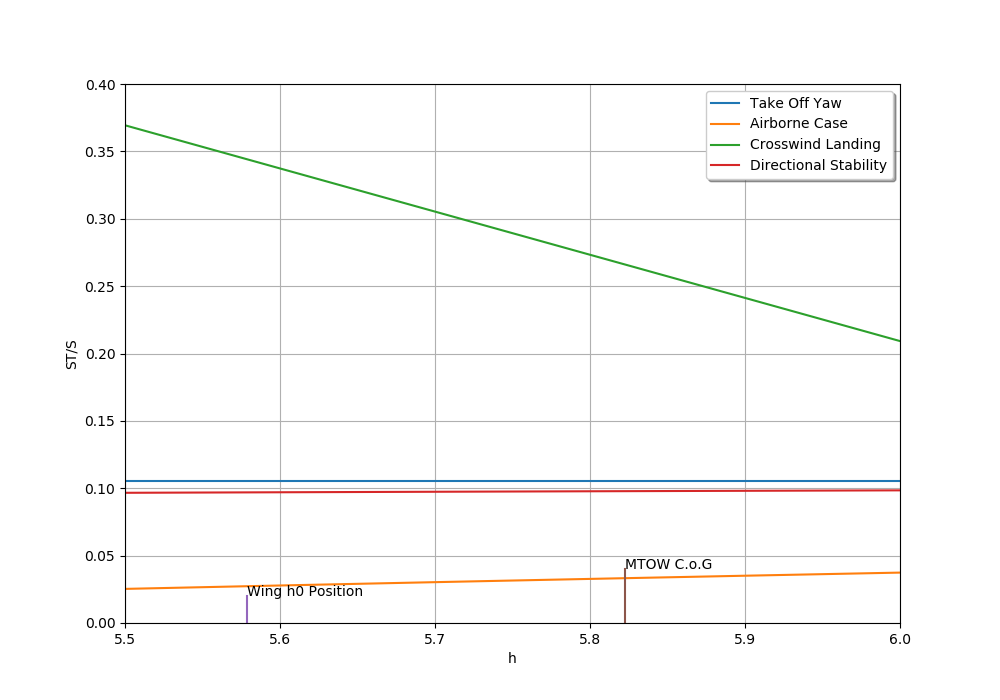
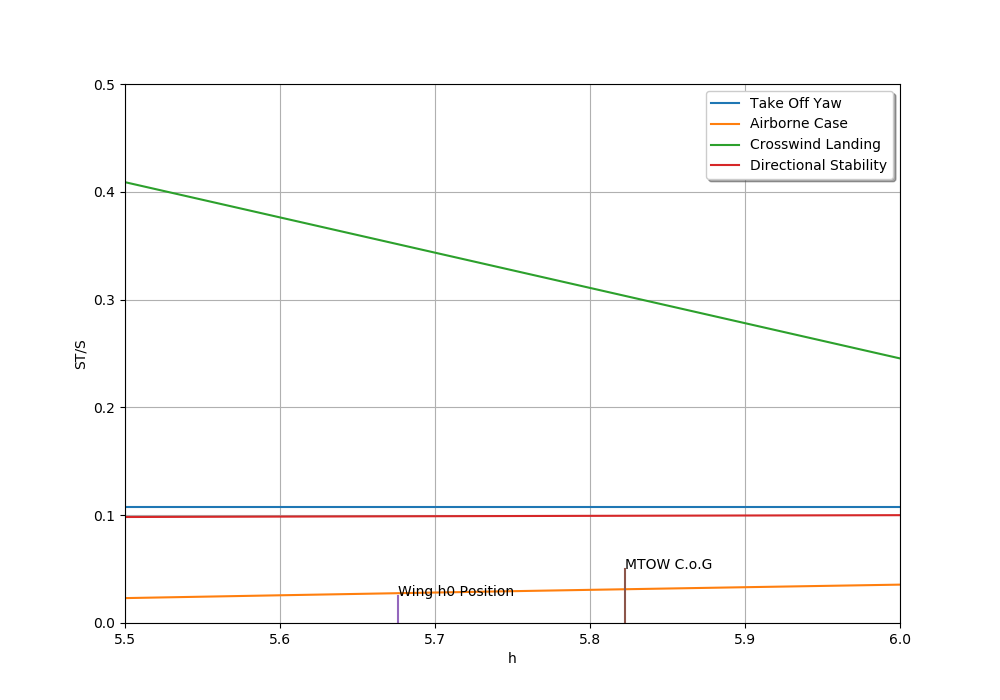
Update h0 value reference

diff --git a/finSizing.py b/finSizing.py
@@ -69,7 +69,7 @@ blade_centre = params['EngineWingPosOutboard']
 engine_scale = 0.89
 engine_intake_area = 0.16 * engine_scale
 engine_diameter = np.sqrt(engine_intake_area/np.pi)*2
-h0 = params['WingChordStart']/c_bar
+h0 = cad_file['Interface']['B54'].value
 print(h0)
 max_bank_angle = np.deg2rad(5)
 cl_vmca = 2.549
